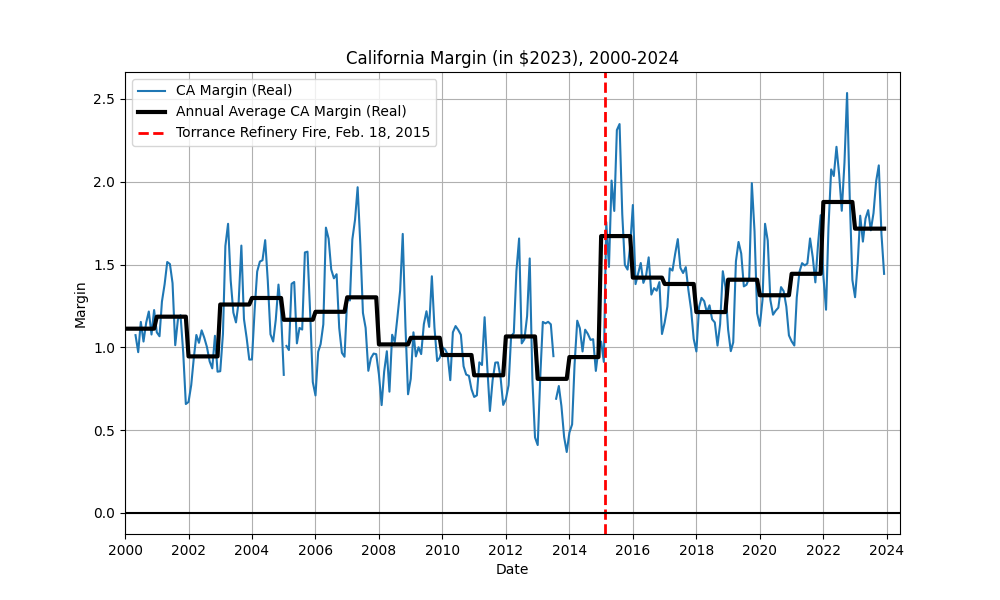
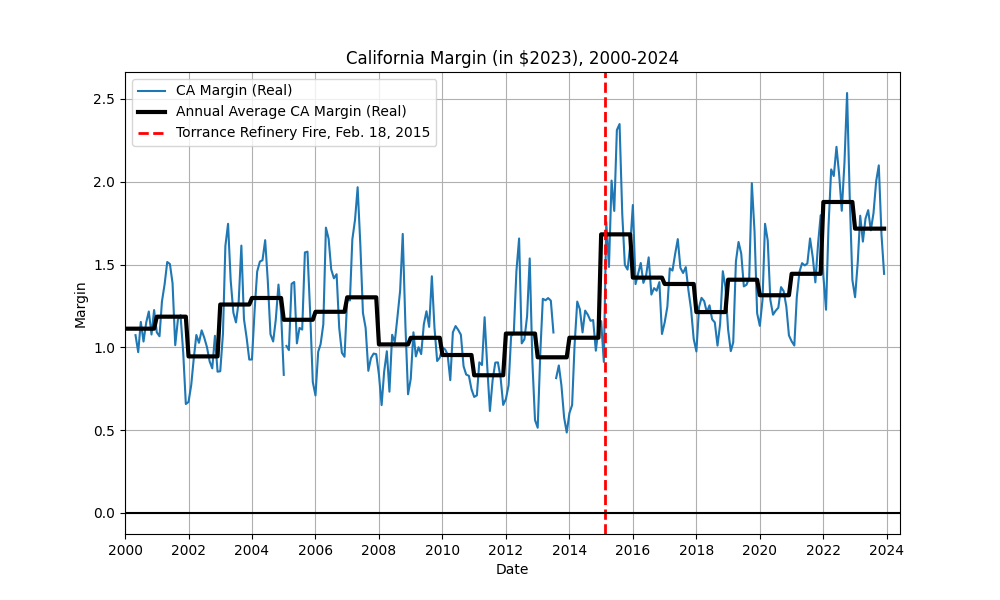
correction of CAX cost start date

Changed region(s): [[0.496, 0.48, 0.62, 0.75]]

diff --git a/code/07_cax.py b/code/07_cax.py
@@ -118,14 +118,17 @@ cax = {
 }
 # Creating DataFrame
 cax_df = pd.DataFrame(cax)
+# even though this is the correct data regarding CAX credits, this regulation was only enforced starting
+# on January 01, 2015. So drop anny before that 
+cax_df['date'] = pd.to_datetime(cax_df['date'])
+cutoff_date = pd.to_datetime('2015-01-01')
+cax_df = cax_df[cax_df['date'] >= cutoff_date]
 # okay so the auction price is the cost per tonne of CO2e
     # Severin assumes that each gallon of e-10 ethanol gas has 0.007902 tonnes of C02e
     # thus, to find the cost per gallon I multiply the whole column by 0.007902
 cax_df['cax cost'] = cax_df['cax price']*0.007902
 # now i can drop the cax price to de-clutter the data
 cax_df = cax_df.drop(['cax price'], axis=1)
-# now I want to make the date variable a pandas datetime formatted variable:
-cax_df['date'] = pd.to_datetime(cax_df['date'])
 # check the dataframe 
 print(cax_df)
 cax_df.to_csv(f'{data}/cax.csv', index=False)

diff --git a/output/enviro_prog_table/enviro_prog_table.tex b/output/enviro_prog_table/enviro_prog_table.tex
@@ -11,8 +11,8 @@
 				Program Name & Years & Average Cost & Method of Cost Calculation \\ 
 				\hline
 				\textbf{Cap-and-Trade (CAX)} 
-					& \vtop{\hbox{\strut November, 2012 - July, 2021}\hbox{\strut August, 2021 - Present}} 
-					& \vtop{\hbox{\strut \$0.112}\hbox{\strut \$0.248}} 
+					& \vtop{\hbox{\strut January, 2015 - July, 2021}\hbox{\strut August, 2021 - Present}} 
+					& \vtop{\hbox{\strut \$0.118}\hbox{\strut \$0.248}} 
 					& \vtop{\hbox{\strut California's Air Resources Board (ARB) reports historical} \hbox{\strut auction price of one ton of carbon; this cost is converted into}\hbox{\strut the cost per gallon of E-10 gasoline.}} \\ 
 				\vspace{0.1in} \\
 				\vtop{\hbox{\strut \textbf{Low Carbon Fuel}}\hbox{\strut \textbf{Standard (LCFS)}}} 

diff --git a/code/51_severin_comp_graph.py b/code/51_severin_comp_graph.py
@@ -29,7 +29,7 @@ start_date = pd.to_datetime('2000-01-01')
 # for the sake of comparison:
     # since severin includes the federal tax in his calculation of CA's total fees/taxes, add it in here
     # since severin excludes it, subtract the carb cost premium
-comp_df['ca total fees and taxes'] = comp_df['ca total fees and taxes'] + 18.4 - comp_df['carb cost premium']
+comp_df['ca total fees and taxes'] = comp_df['ca total fees and taxes'] + 0.184 - comp_df['carb cost premium']
 
 # also add excise and state/local sales tax together
 comp_df['ca state.local tax cost'] = comp_df['ca state.local tax cost'] + comp_df['ca state gas tax']
